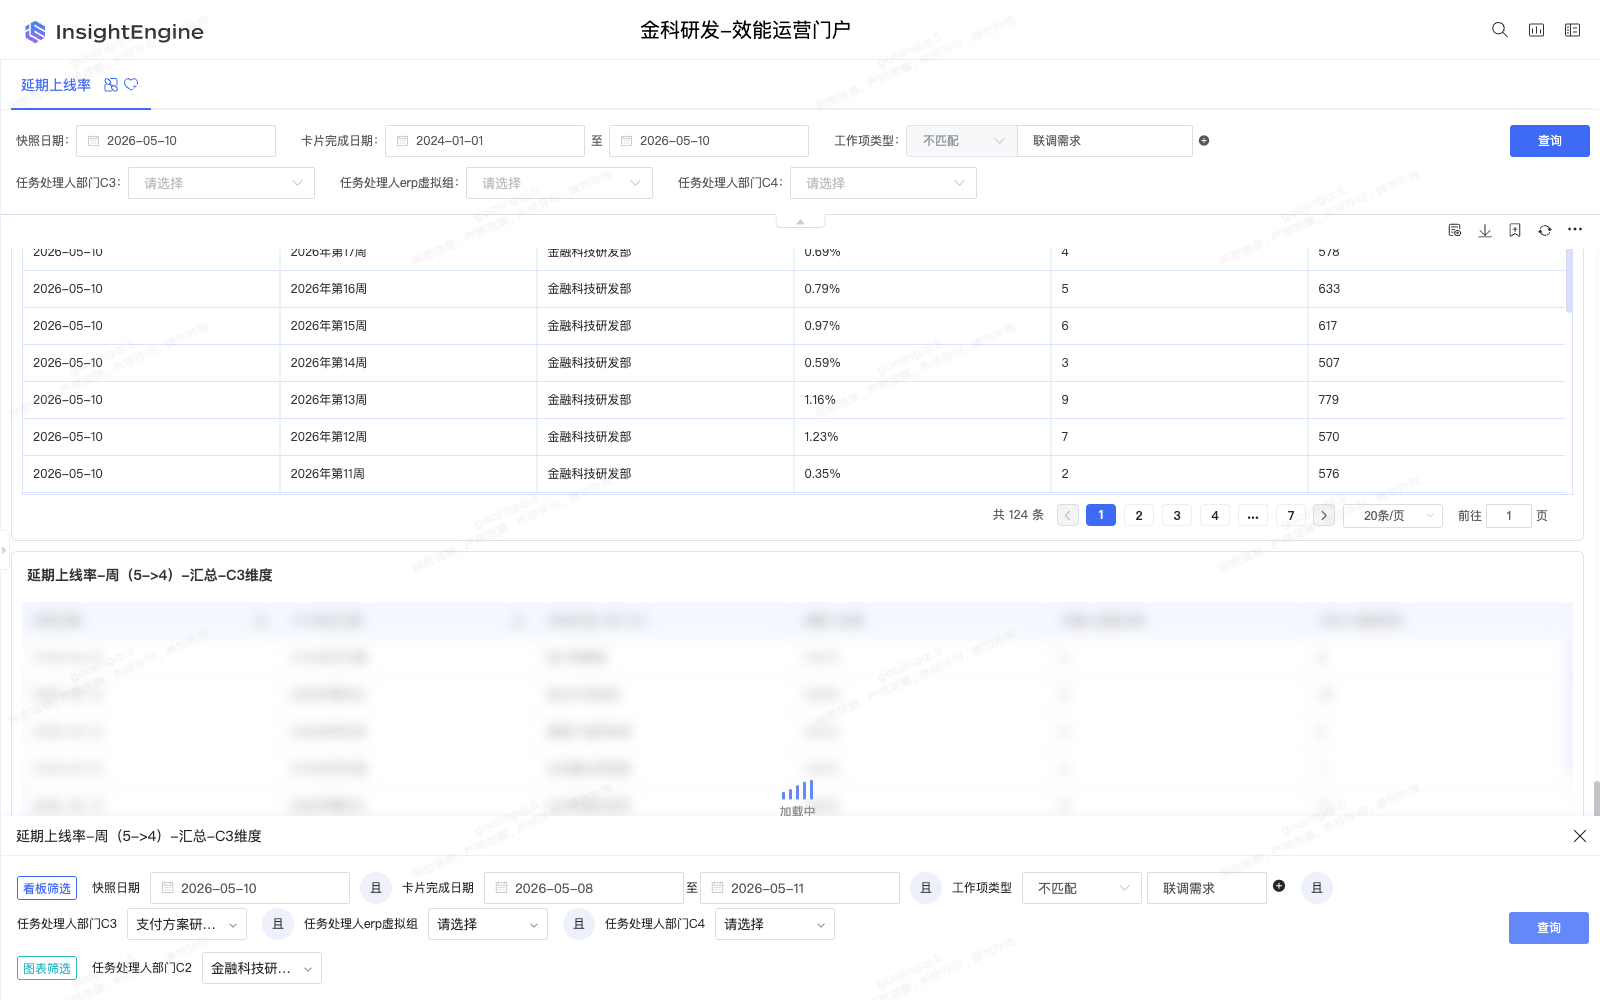
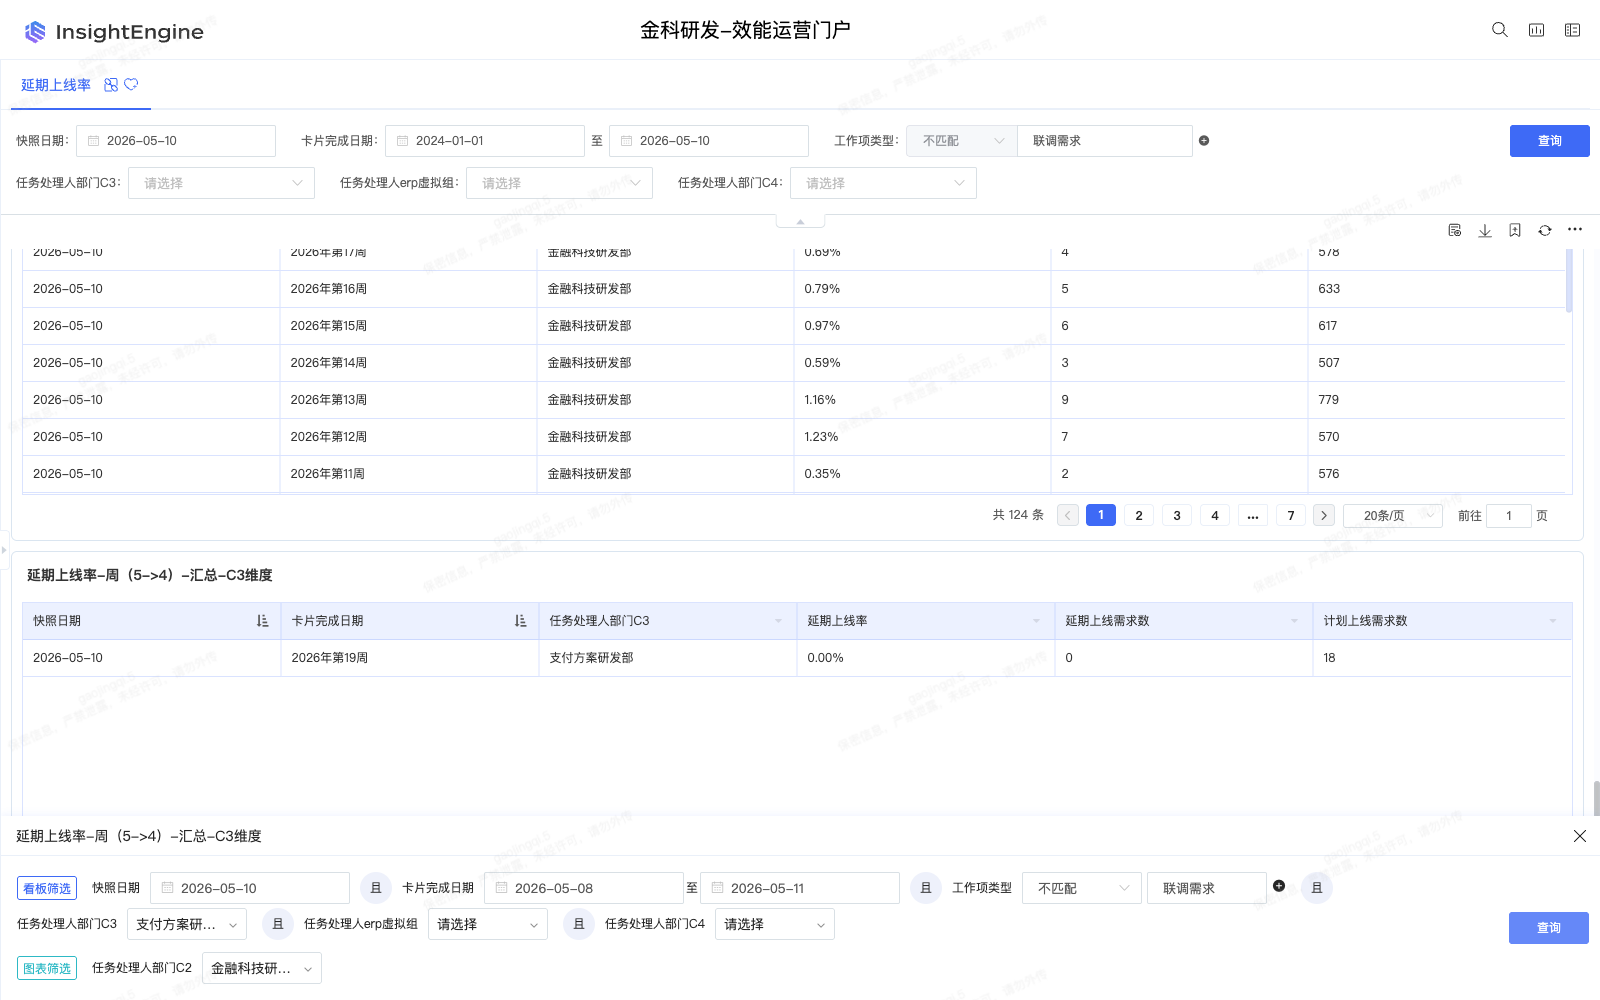
数据更新

diff --git a/index.html b/index.html
@@ -534,10 +534,10 @@
               <div class="metric-preview">
                 <div class="metric-preview-label">巡检截图</div>
                 <img
-                  src="./prototype/static/assets/delay_online_rate.png?v=1778462916"
+                  src="./prototype/static/assets/delay_online_rate.png?v=1778466463"
                   alt="延期上线率巡检截图"
                   loading="lazy"
-                  data-preview-full="./prototype/static/assets/delay_online_rate.png?v=1778462916"
+                  data-preview-full="./prototype/static/assets/delay_online_rate.png?v=1778466463"
                   data-preview-title="延期上线率"
                 />
               </div>

diff --git a/thursday-report.html b/thursday-report.html
@@ -614,7 +614,7 @@
         <div class="subtitle">本周尚未到计划日期顺延执行日（2026-05-14），上一周期数据不参与展示。</div>
       </div>
       <div class="run-card">
-        <strong>2026-05-11 10:07:20</strong>
+        <strong>2026-05-11 10:28:16</strong>
         <div>报告生成时间</div>
       </div>
     </header>

diff --git a/weekly-report.html b/weekly-report.html
@@ -614,7 +614,7 @@
         <div class="subtitle">本周尚未到周度巡检执行日（2026-05-15），上一周期数据不参与展示。</div>
       </div>
       <div class="run-card">
-        <strong>2026-05-11 10:07:20</strong>
+        <strong>2026-05-11 10:28:16</strong>
         <div>报告生成时间</div>
       </div>
     </header>